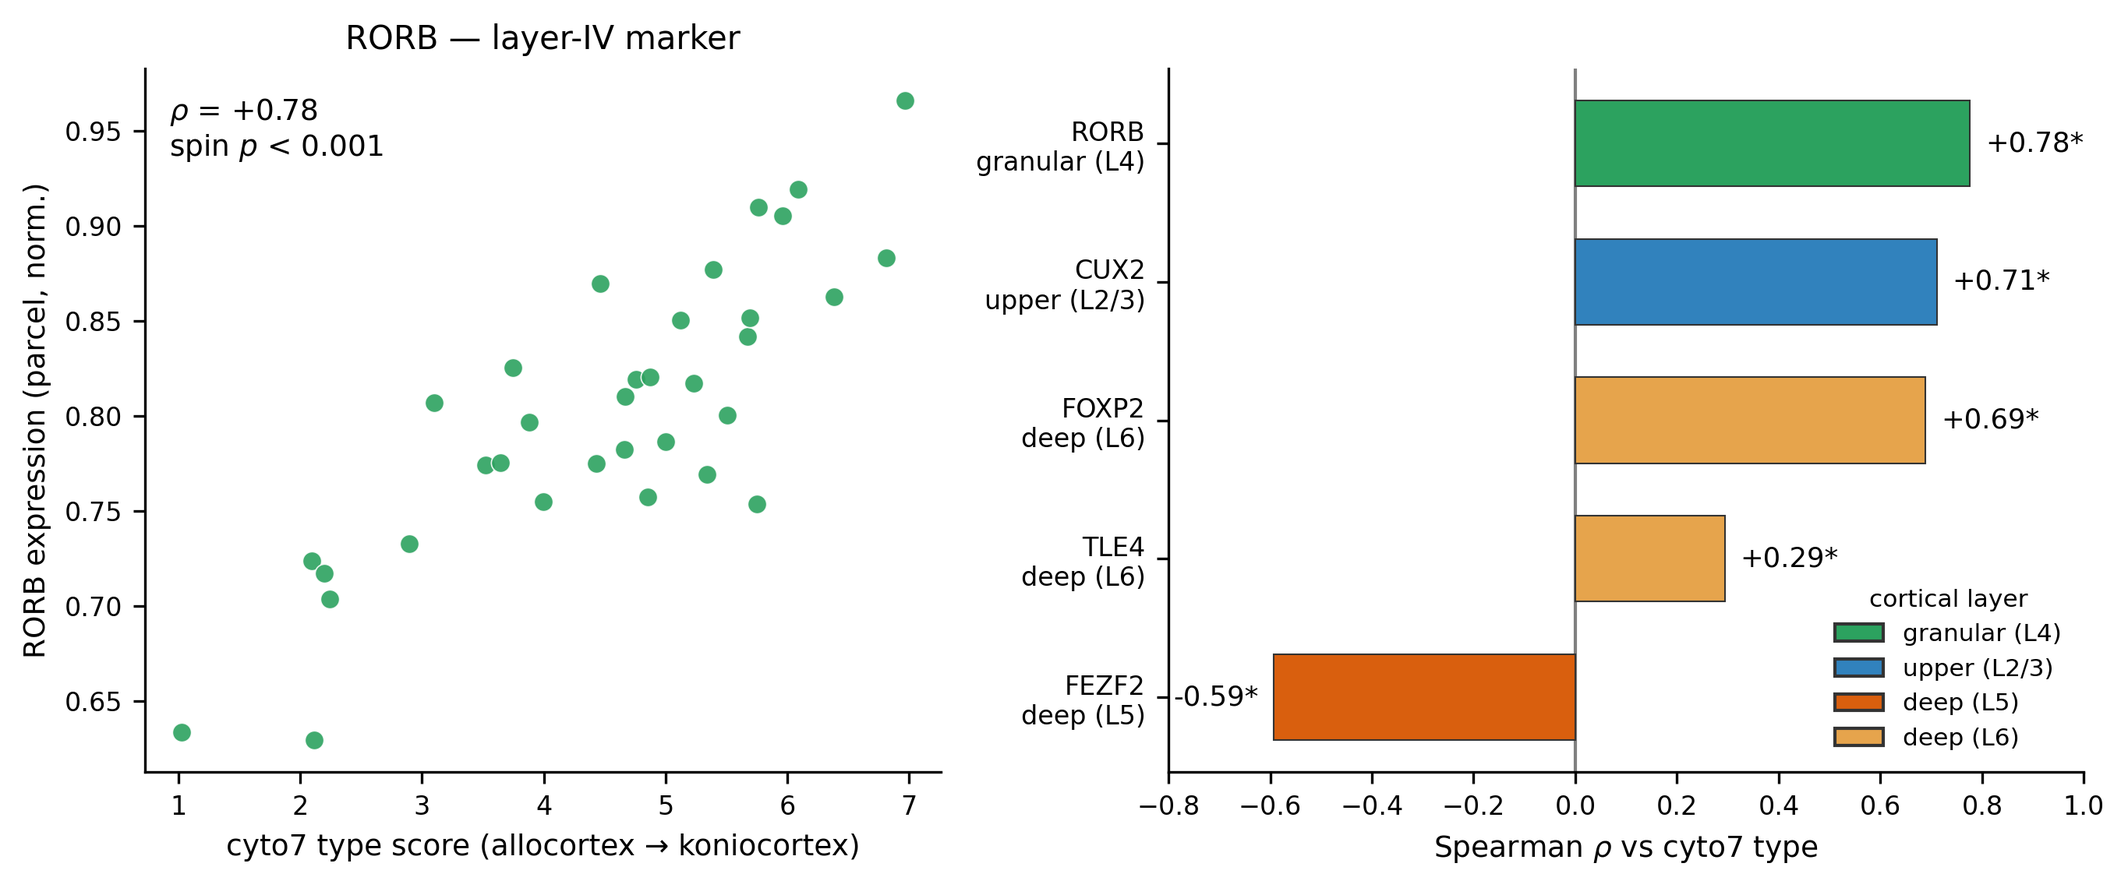
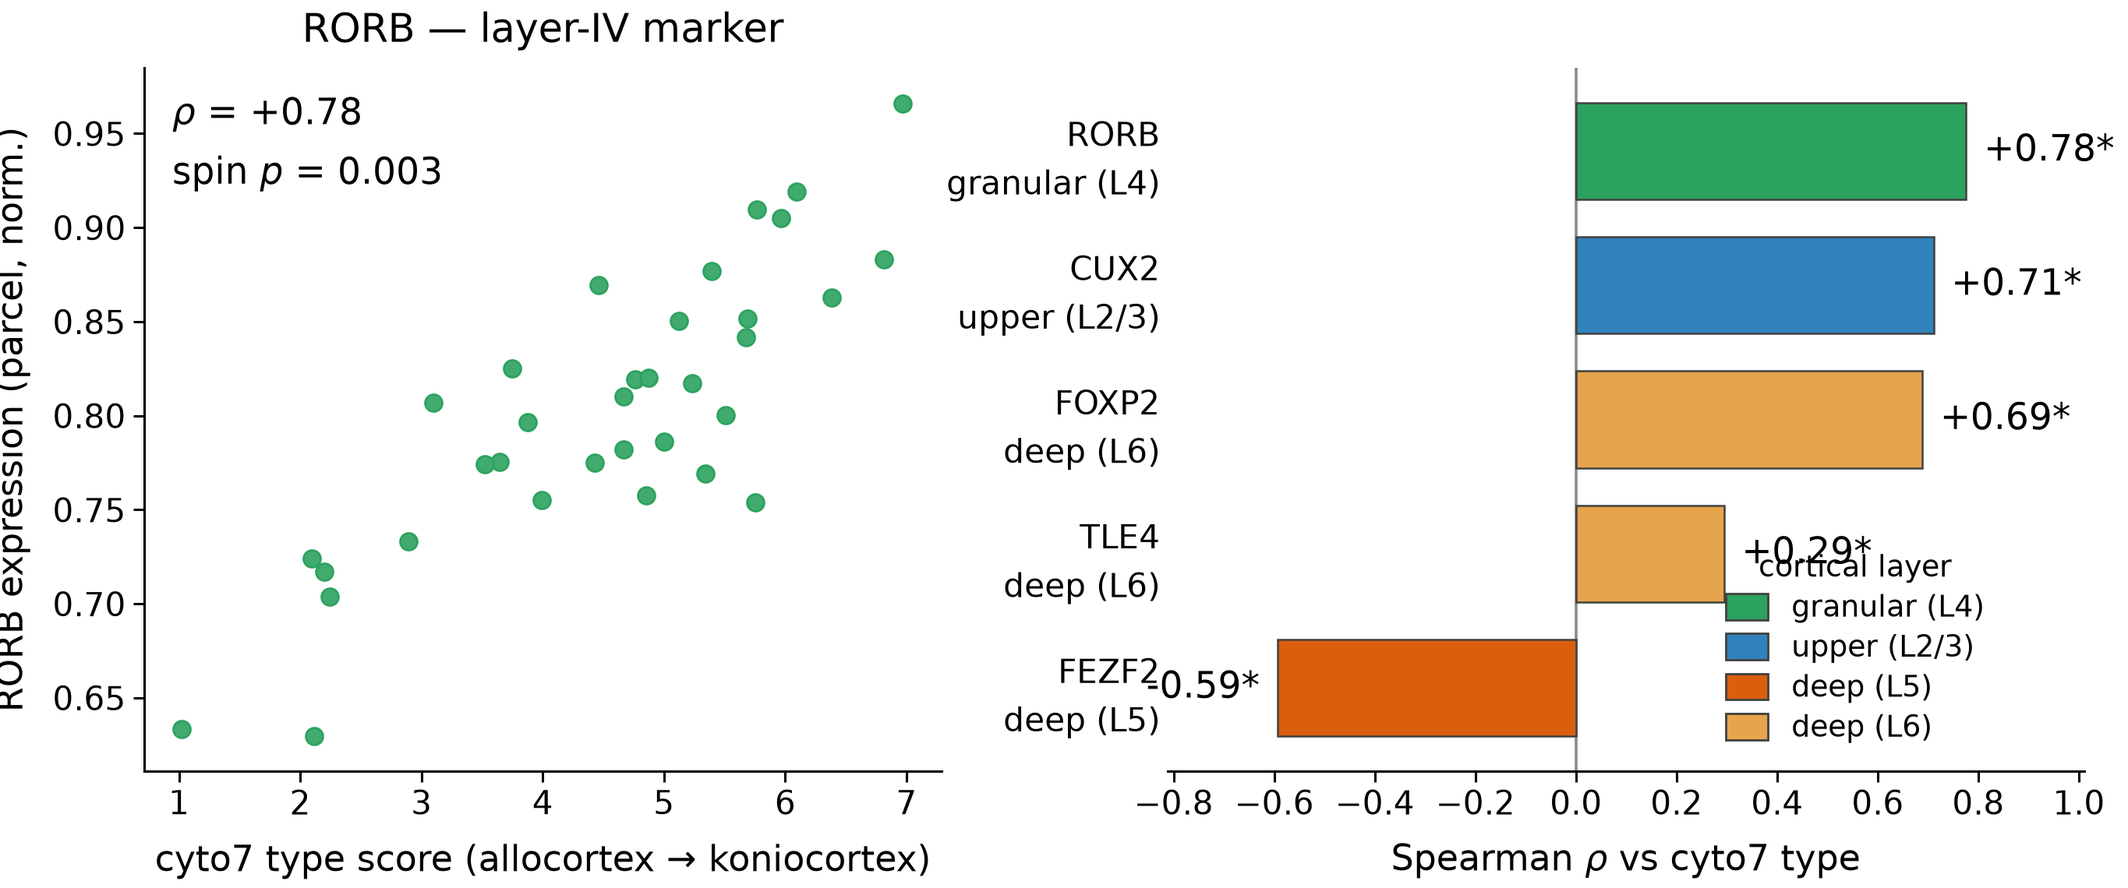
RR45: resync with the manuscript, fill ORCIDs, document the volumetric route
The bundle shipped the PRE-RR32 outcome table: 143 rows in 20 families, where
the paper, Table S4 and the supplement all say 147 rows in 21 families. That is
the paper's central statistical table, and a reviewer rebuilding it from this
repository would not have reproduced the paper. Same defect class as RR17 and
RR24 -- a released product that is not what it claims to be. Synced, with the
four other rr2_table outputs that moved with it.

Eight figures were still the 26 August renders, superseded by RR33's drift fix
and RR43's Figure 2. All nineteen figures the manuscript and supplement
\includegraphics now hash-match the bundle.

CITATION.cff: the five TODO(ORCID) placeholders filled. The two TODO(DOI)
placeholders are left alone; they are minted from a release that does not exist.

atlas/README.md: a volumetric route for readers who need cyto7 in a volume,
via mri_aparc2aseg after the surf2surf step. It documents the trap that the
released colour tables pack RGB into structure_id, so the naive command yields
1000-plus-packed-RGB rather than 1001-1007, and points at the two helpers in
code/pipeline/compute_tractography_connectivity.py that give clean labels. No
volume file is shipped, and the reasoning for that is in the README.

dist/SHA256SUMS.txt regenerated: 419 lines before and after, 15 checksums
changed, which is exactly what was replaced.

diff --git a/results/tables/review_response/rr2_table/outcome_table.tex b/results/tables/review_response/rr2_table/outcome_table.tex
@@ -2,7 +2,7 @@
 {\footnotesize
 \setlength{\tabcolsep}{4pt}
 \begin{longtable}{>{\raggedright\arraybackslash}p{6.0cm}>{\raggedright\arraybackslash}p{3.0cm}>{\raggedright\arraybackslash}p{1.5cm}>{\raggedright\arraybackslash}p{3.8cm}>{\raggedright\arraybackslash}p{4.0cm}>{\raggedright\arraybackslash}p{1.2cm}>{\raggedright\arraybackslash}p{1.0cm}>{\raggedright\arraybackslash}p{0.5cm}}
-\caption{\textbf{Supplementary Table S5. Complete outcome table.} Every statistical test run in this study, with its hypothesis status, statistical unit, null, FDR family, raw $p$, within-family $q$ and effect size. Status records whether a test was specified in advance, not whether its result is retained: the connectivity analysis of Annex~G was specified in advance but is reported as exploratory there, because it does not survive a topology-preserving null or a bundle-level model. An asterisk marks tests surviving at $q<0.05$ within their family. Families are never pooled. Tests reported without a $q$ had no FDR applied within their family and are marked accordingly; Table~S6 lists every family with its size, whether correction was applied and why.}\label{tab:outcomes}\\
+\caption{\textbf{Supplementary Table S8. Outcome table: the declared FDR families.} Every test in the declared FDR families, with its hypothesis status, statistical unit, null, FDR family, raw $p$, within-family $q$ and effect size. Status records whether a test was specified in advance, not whether its result is retained: the connectivity analysis of Annex~G was specified in advance but is reported as exploratory there, because it does not survive a spin null or a bundle-level model. An asterisk marks tests surviving at $q<0.05$ within their family. Families are never pooled. Tests reported without a $q$ had no FDR applied within their family and are marked accordingly; Table~S4 lists every family with its size, whether correction was applied and why. Robustness and sensitivity analyses reported in the text are not confirmatory tests, sit in no declared family and are therefore not listed here; they are disclosed, without FDR, in the robustness listing.}\label{tab:outcomes}\\
 \hline
 Measure & Family ($n$) & Status & Unit ($n_{\mathrm{obs}}$) & Null & $p_{\mathrm{raw}}$ & $q$ & \\
 \hline
@@ -22,9 +22,13 @@ Alpha power (8-12 Hz)\newline\footnotesize Spearman $\rho$ = +0.3692 & structure
 Beta power (12-30 Hz)\newline\footnotesize Spearman $\rho$ = +0.2660 & structure\_\allowbreak{}function\_\allowbreak{}9 (9) & confirmatory & vertex (32k fs\_\allowbreak{}LR), n=58731 & vertex spin (N=1000, seed 0) & 0.416 & 0.468 &  \\
 Gamma power (30-60 Hz)\newline\footnotesize Spearman $\rho$ = -0.3082 & structure\_\allowbreak{}function\_\allowbreak{}9 (9) & confirmatory & vertex (32k fs\_\allowbreak{}LR), n=58731 & vertex spin (N=1000, seed 0) & 0.289 & 0.371 &  \\
 Principal functional gradient\newline\footnotesize Spearman $\rho$ = -0.5761 & structure\_\allowbreak{}function\_\allowbreak{}9 (9) & confirmatory & vertex (32k fs\_\allowbreak{}LR), n=58731 & vertex spin (N=1000, seed 0) & 0.001 & 0.004 & * \\
-AHBA gene expression PC1\newline\footnotesize Spearman $\rho$ = +0.6657 & external\_\allowbreak{}reference\_\allowbreak{}3 (3) & confirmatory & vertex (32k fs\_\allowbreak{}LR), n=57957 & vertex spin (N=1000, seed 0) & 0.001 & 0.003 & * \\
-PET receptor PC1 (Hansen-2022 collection)\newline\footnotesize Spearman $\rho$ = -0.3292 & external\_\allowbreak{}reference\_\allowbreak{}3 (3) & confirmatory & vertex (32k fs\_\allowbreak{}LR), n=58731 & vertex spin (N=1000, seed 0) & 0.063 & 0.094 &  \\
-BigBrain profile skewness (pre-registered, histology)\newline\footnotesize Spearman $\rho$ = -0.2091 & external\_\allowbreak{}reference\_\allowbreak{}3 (3) & confirmatory & vertex (32k fs\_\allowbreak{}LR), n=58731 & vertex spin (N=1000, seed 0) & 0.321 & 0.401 &  \\
+AHBA gene expression PC1\newline\footnotesize Spearman $\rho$ = +0.6657 & external\_\allowbreak{}reference\_\allowbreak{}2 (2) & confirmatory & vertex (32k fs\_\allowbreak{}LR), n=57957 & vertex spin (N=1000, seed 0) & 0.001 & 0.002 & * \\
+PET receptor PC1 (Hansen-2022 collection)\newline\footnotesize Spearman $\rho$ = -0.3292 & external\_\allowbreak{}reference\_\allowbreak{}2 (2) & confirmatory & vertex (32k fs\_\allowbreak{}LR), n=58731 & vertex spin (N=1000, seed 0) & 0.063 & 0.063 &  \\
+BigBrain Profile mean intensity\newline\footnotesize Spearman $\rho$ = -0.2826 & bigbrain\_\allowbreak{}profile\_\allowbreak{}panel\_\allowbreak{}5 (5) & exploratory & vertex (32k fs\_\allowbreak{}LR), n=58731 & vertex spin (N=1000, seed 0) & 0.209 & 0.348 &  \\
+BigBrain Profile SD\newline\footnotesize Spearman $\rho$ = +0.4357 & bigbrain\_\allowbreak{}profile\_\allowbreak{}panel\_\allowbreak{}5 (5) & exploratory & vertex (32k fs\_\allowbreak{}LR), n=58731 & vertex spin (N=1000, seed 0) & 0.003 & 0.015 & * \\
+BigBrain Profile skewness (pre-registered)\newline\footnotesize Spearman $\rho$ = -0.2091 & bigbrain\_\allowbreak{}profile\_\allowbreak{}panel\_\allowbreak{}5 (5) & confirmatory & vertex (32k fs\_\allowbreak{}LR), n=58731 & vertex spin (N=1000, seed 0) & 0.321 & 0.401 &  \\
+BigBrain Profile kurtosis\newline\footnotesize Spearman $\rho$ = -0.2422 & bigbrain\_\allowbreak{}profile\_\allowbreak{}panel\_\allowbreak{}5 (5) & exploratory & vertex (32k fs\_\allowbreak{}LR), n=58731 & vertex spin (N=1000, seed 0) & 0.133 & 0.332 &  \\
+BigBrain Layer-IV peak prominence\newline\footnotesize Spearman $\rho$ = +0.0848 & bigbrain\_\allowbreak{}profile\_\allowbreak{}panel\_\allowbreak{}5 (5) & exploratory & vertex (32k fs\_\allowbreak{}LR), n=58731 & vertex spin (N=1000, seed 0) & 0.674 & 0.674 &  \\
 Aperiodic exponent (fixed, 2-40 Hz, pre-registered)\newline\footnotesize mean over 89 subjects of the per-subject vertex-level Spearman $\rho$ = -0.1192 & dynamics\_\allowbreak{}singlemember\_\allowbreak{}7 (7) & confirmatory & subject (N=89) x vertex (4k fs\_\allowbreak{}LR), n=89 subjects x 8004 vertices & hierarchical subject x vertex spin (N=1000, seed 0) & 0.499 & 0.582 &  \\
 Peak frequency\newline\footnotesize mean over 89 subjects of the per-subject vertex-level Spearman $\rho$ = +0.0280 & dynamics\_\allowbreak{}singlemember\_\allowbreak{}7 (7) & confirmatory & subject (N=89) x vertex (4k fs\_\allowbreak{}LR), n=89 subjects x 8004 vertices & hierarchical subject x vertex spin (N=1000, seed 0) & 0.824 & 0.824 &  \\
 Spectral offset\newline\footnotesize mean over 89 subjects of the per-subject vertex-level Spearman $\rho$ = -0.1618 & dynamics\_\allowbreak{}singlemember\_\allowbreak{}7 (7) & confirmatory & subject (N=89) x vertex (4k fs\_\allowbreak{}LR), n=89 subjects x 8004 vertices & hierarchical subject x vertex spin (N=1000, seed 0) & 0.213 & 0.298 &  \\
@@ -34,11 +38,11 @@ Intrinsic timescale (area under the ACF, pre-registered)\newline\footnotesize me
 Intrinsic timescale (exponential decay)\newline\footnotesize mean over 89 subjects of the per-subject vertex-level Spearman $\rho$ = -0.3797 & dynamics\_\allowbreak{}robustness\_\allowbreak{}variants (outside FDR) (5) & robustness & subject (N=89) x vertex (4k fs\_\allowbreak{}LR), n=89 subjects x 8004 vertices & hierarchical subject x vertex spin (N=1000, seed 0) & 0.013 & -- &  \\
 Aperiodic exponent (knee mode)\newline\footnotesize mean over 89 subjects of the per-subject vertex-level Spearman $\rho$ = +0.3388 & dynamics\_\allowbreak{}robustness\_\allowbreak{}variants (outside FDR) (5) & robustness & subject (N=89) x vertex (4k fs\_\allowbreak{}LR), n=89 subjects x 8004 vertices & hierarchical subject x vertex spin (N=1000, seed 0) & 0.040 & -- &  \\
 Aperiodic exponent (broadband 1-100 Hz)\newline\footnotesize mean over 89 subjects of the per-subject vertex-level Spearman $\rho$ = +0.0954 & dynamics\_\allowbreak{}robustness\_\allowbreak{}variants (outside FDR) (5) & robustness & subject (N=89) x vertex (4k fs\_\allowbreak{}LR), n=89 subjects x 8004 vertices & hierarchical subject x vertex spin (N=1000, seed 0) & 0.469 & -- &  \\
-Aperiodic-corrected delta power\newline\footnotesize mean over 89 subjects of the per-subject vertex-level Spearman $\rho$ = -0.0298 & osc\_\allowbreak{}band\_\allowbreak{}as\_\allowbreak{}coded (4) & exploratory & subject (N=89) x vertex (4k fs\_\allowbreak{}LR), n=89 subjects x 8004 vertices & hierarchical subject x vertex spin (N=1000, seed 0) & 0.284 & 0.397 &  \\
-Aperiodic-corrected theta power\newline\footnotesize mean over 89 subjects of the per-subject vertex-level Spearman $\rho$ = -0.0923 & osc\_\allowbreak{}band\_\allowbreak{}as\_\allowbreak{}coded (4) & exploratory & subject (N=89) x vertex (4k fs\_\allowbreak{}LR), n=89 subjects x 8004 vertices & hierarchical subject x vertex spin (N=1000, seed 0) & 0.493 & 0.575 &  \\
-Aperiodic-corrected alpha power\newline\footnotesize mean over 89 subjects of the per-subject vertex-level Spearman $\rho$ = +0.2602 & osc\_\allowbreak{}band\_\allowbreak{}as\_\allowbreak{}coded (4) & exploratory & subject (N=89) x vertex (4k fs\_\allowbreak{}LR), n=89 subjects x 8004 vertices & hierarchical subject x vertex spin (N=1000, seed 0) & 0.242 & 0.397 &  \\
+Aperiodic-corrected delta power\newline\footnotesize mean over 89 subjects of the per-subject vertex-level Spearman $\rho$ = -0.0298 & osc\_\allowbreak{}band\_\allowbreak{}as\_\allowbreak{}coded\_\allowbreak{}4 (4) & exploratory & subject (N=89) x vertex (4k fs\_\allowbreak{}LR), n=89 subjects x 8004 vertices & hierarchical subject x vertex spin (N=1000, seed 0) & 0.284 & 0.567 &  \\
+Aperiodic-corrected theta power\newline\footnotesize mean over 89 subjects of the per-subject vertex-level Spearman $\rho$ = -0.0923 & osc\_\allowbreak{}band\_\allowbreak{}as\_\allowbreak{}coded\_\allowbreak{}4 (4) & exploratory & subject (N=89) x vertex (4k fs\_\allowbreak{}LR), n=89 subjects x 8004 vertices & hierarchical subject x vertex spin (N=1000, seed 0) & 0.493 & 0.591 &  \\
+Aperiodic-corrected alpha power\newline\footnotesize mean over 89 subjects of the per-subject vertex-level Spearman $\rho$ = +0.2602 & osc\_\allowbreak{}band\_\allowbreak{}as\_\allowbreak{}coded\_\allowbreak{}4 (4) & exploratory & subject (N=89) x vertex (4k fs\_\allowbreak{}LR), n=89 subjects x 8004 vertices & hierarchical subject x vertex spin (N=1000, seed 0) & 0.242 & 0.567 &  \\
 Aperiodic-corrected beta power\newline\footnotesize mean over 89 subjects of the per-subject vertex-level Spearman $\rho$ = +0.2222 & dynamics\_\allowbreak{}singlemember\_\allowbreak{}7 (7) & confirmatory & subject (N=89) x vertex (4k fs\_\allowbreak{}LR), n=89 subjects x 8004 vertices & hierarchical subject x vertex spin (N=1000, seed 0) & 0.012 & 0.021 & * \\
-Aperiodic-corrected gamma power\newline\footnotesize mean over 89 subjects of the per-subject vertex-level Spearman $\rho$ = -0.0273 & osc\_\allowbreak{}band\_\allowbreak{}as\_\allowbreak{}coded (4) & exploratory & subject (N=89) x vertex (4k fs\_\allowbreak{}LR), n=89 subjects x 8004 vertices & hierarchical subject x vertex spin (N=1000, seed 0) & 0.591 & 0.591 &  \\
+Aperiodic-corrected gamma power\newline\footnotesize mean over 89 subjects of the per-subject vertex-level Spearman $\rho$ = -0.0273 & osc\_\allowbreak{}band\_\allowbreak{}as\_\allowbreak{}coded\_\allowbreak{}4 (4) & exploratory & subject (N=89) x vertex (4k fs\_\allowbreak{}LR), n=89 subjects x 8004 vertices & hierarchical subject x vertex spin (N=1000, seed 0) & 0.591 & 0.591 &  \\
 Slow/fast band-power ratio\newline\footnotesize mean over 89 subjects of the per-subject vertex-level Spearman $\rho$ = -0.3564 & dynamics\_\allowbreak{}singlemember\_\allowbreak{}7 (7) & confirmatory & subject (N=89) x vertex (4k fs\_\allowbreak{}LR), n=89 subjects x 8004 vertices & hierarchical subject x vertex spin (N=1000, seed 0) & 0.009 & 0.021 & * \\
 Power-weighted spectral centroid\newline\footnotesize mean over 89 subjects of the per-subject vertex-level Spearman $\rho$ = +0.4088 & dynamics\_\allowbreak{}singlemember\_\allowbreak{}7 (7) & confirmatory & subject (N=89) x vertex (4k fs\_\allowbreak{}LR), n=89 subjects x 8004 vertices & hierarchical subject x vertex spin (N=1000, seed 0) & 0.004 & 0.014 & * \\
 MOR (opioid, metabotropic)\newline\footnotesize Spearman $\rho$ = -0.5483 & receptor\_\allowbreak{}maps\_\allowbreak{}19 (19) & exploratory & vertex (32k fs\_\allowbreak{}LR), n=58731 & vertex spin (N=1000, seed 0) & 0.005 & 0.043 & * \\
@@ -108,8 +112,8 @@ Per-type connectional property: mean\_\allowbreak{}length\_\allowbreak{}mm\newli
 Per-type connectional property: mean\_\allowbreak{}tortuosity\newline\footnotesize Spearman $\rho$ = +1.0000 & tractography\_\allowbreak{}per\_\allowbreak{}type\_\allowbreak{}8 (no FDR applied) (8) & exploratory & type (7), n=7 & label permutation of the 7 type ranks (N=5040, exhaustive) & 0.0004 & -- & * \\
 Added value over the area-level map, global: T1w/T2w myelin\newline\footnotesize delta |$\rho$| = +0.1164 (cyto7 +0.608 vs von-Economo +0.492) & added\_\allowbreak{}value\_\allowbreak{}global\_\allowbreak{}9 (9) & confirmatory & vertex (32k fs\_\allowbreak{}LR), n=58731 & vertex spin (N=1000, seed 0) & 0.001 & 0.006 & * \\
 Added value over the area-level map, global: Cortical thickness\newline\footnotesize delta |$\rho$| = +0.0960 (cyto7 -0.509 vs von-Economo -0.413) & added\_\allowbreak{}value\_\allowbreak{}global\_\allowbreak{}9 (9) & confirmatory & vertex (32k fs\_\allowbreak{}LR), n=58731 & vertex spin (N=1000, seed 0) & 0.002 & 0.006 & * \\
-Added value over the area-level map, global: Intrinsic timescale\newline\footnotesize delta |$\rho$| = +0.1582 (cyto7 -0.487 vs von-Economo -0.329) & added\_\allowbreak{}value\_\allowbreak{}global\_\allowbreak{}9 (9) & confirmatory & vertex (32k fs\_\allowbreak{}LR), n=58731 & vertex spin (N=1000, seed 0) & 0.034 & 0.076 &  \\
-Added value over the area-level map, global: Delta power (0.5-4 Hz)\newline\footnotesize delta |$\rho$| = +0.1398 (cyto7 -0.448 vs von-Economo -0.308) & added\_\allowbreak{}value\_\allowbreak{}global\_\allowbreak{}9 (9) & confirmatory & vertex (32k fs\_\allowbreak{}LR), n=58731 & vertex spin (N=1000, seed 0) & 0.077 & 0.139 &  \\
+Added value over the area-level map, global: Intrinsic timescale\newline\footnotesize delta |$\rho$| = +0.1582 (cyto7 -0.487 vs von-Economo -0.329) & added\_\allowbreak{}value\_\allowbreak{}global\_\allowbreak{}9 (9) & confirmatory & vertex (32k fs\_\allowbreak{}LR), n=58731 & vertex spin (N=1000, seed 0) & 0.034 & 0.077 &  \\
+Added value over the area-level map, global: Delta power (0.5-4 Hz)\newline\footnotesize delta |$\rho$| = +0.1398 (cyto7 -0.448 vs von-Economo -0.308) & added\_\allowbreak{}value\_\allowbreak{}global\_\allowbreak{}9 (9) & confirmatory & vertex (32k fs\_\allowbreak{}LR), n=58731 & vertex spin (N=1000, seed 0) & 0.077 & 0.138 &  \\
 Added value over the area-level map, global: Theta power (4-8 Hz)\newline\footnotesize delta |$\rho$| = +0.0662 (cyto7 -0.213 vs von-Economo -0.147) & added\_\allowbreak{}value\_\allowbreak{}global\_\allowbreak{}9 (9) & confirmatory & vertex (32k fs\_\allowbreak{}LR), n=58731 & vertex spin (N=1000, seed 0) & 0.537 & 0.537 &  \\
 Added value over the area-level map, global: Alpha power (8-12 Hz)\newline\footnotesize delta |$\rho$| = +0.1074 (cyto7 +0.371 vs von-Economo +0.263) & added\_\allowbreak{}value\_\allowbreak{}global\_\allowbreak{}9 (9) & confirmatory & vertex (32k fs\_\allowbreak{}LR), n=58731 & vertex spin (N=1000, seed 0) & 0.226 & 0.298 &  \\
 Added value over the area-level map, global: Beta power (12-30 Hz)\newline\footnotesize delta |$\rho$| = +0.0948 (cyto7 +0.235 vs von-Economo +0.141) & added\_\allowbreak{}value\_\allowbreak{}global\_\allowbreak{}9 (9) & confirmatory & vertex (32k fs\_\allowbreak{}LR), n=58731 & vertex spin (N=1000, seed 0) & 0.446 & 0.501 &  \\
@@ -145,8 +149,8 @@ Win fraction on the disagreement set (off2): Principal functional gradient\newli
 Aggregate win fraction on the disagreement set (all)\newline\footnotesize win fraction = 0.6010 across myelin/thickness/gradient & added\_\allowbreak{}value\_\allowbreak{}aggregate\_\allowbreak{}3 (3) & confirmatory & vertex (32k fs\_\allowbreak{}LR), n=27298 & vertex spin (N=1000, seed 0), win fraction recomputed per rotation & 0.001 & -- & * \\
 Aggregate win fraction on the disagreement set (off-by-1)\newline\footnotesize win fraction = 0.5757 across myelin/thickness/gradient & added\_\allowbreak{}value\_\allowbreak{}aggregate\_\allowbreak{}3 (3) & confirmatory & vertex (32k fs\_\allowbreak{}LR), n=23168 & vertex spin (N=1000, seed 0), win fraction recomputed per rotation & 0.002 & -- & * \\
 Aggregate win fraction on the disagreement set (off-by-$\geq$2)\newline\footnotesize win fraction = 0.7433 across myelin/thickness/gradient & added\_\allowbreak{}value\_\allowbreak{}aggregate\_\allowbreak{}3 (3) & confirmatory & vertex (32k fs\_\allowbreak{}LR), n=4130 & vertex spin (N=1000, seed 0), win fraction recomputed per rotation & 0.001 & -- & * \\
-Added value over the area-level map with BigBrain histology as arbiter\newline\footnotesize delta |$\rho$| = +0.0515 (cyto7 +0.209 vs von-Economo +0.158) & bigbrain\_\allowbreak{}added\_\allowbreak{}value\_\allowbreak{}2 (2) & confirmatory & vertex (32k fs\_\allowbreak{}LR), n=58731 & vertex spin (N=1000, seed 0) & 0.343 & 0.343 &  \\
-Win fraction on the disagreement set with BigBrain histology as arbiter\newline\footnotesize win fraction = 0.4990 (chance 0.519) & bigbrain\_\allowbreak{}added\_\allowbreak{}value\_\allowbreak{}2 (2) & confirmatory & vertex (32k fs\_\allowbreak{}LR), n=27298 & vertex spin (N=1000, seed 0), win fraction recomputed per rotation & 0.740 & -- &  \\
+Added value over the area-level map with BigBrain histology as arbiter\newline\footnotesize delta |$\rho$| = +0.0515 (cyto7 +0.209 vs von-Economo +0.158) & bigbrain\_\allowbreak{}added\_\allowbreak{}value\_\allowbreak{}2 (2) & confirmatory & vertex (32k fs\_\allowbreak{}LR), n=58731 & vertex spin (N=1000, seed 0) & 0.343 & 0.685 &  \\
+Win fraction on the disagreement set with BigBrain histology as arbiter\newline\footnotesize win fraction = 0.4990 (chance 0.519) & bigbrain\_\allowbreak{}added\_\allowbreak{}value\_\allowbreak{}2 (2) & confirmatory & vertex (32k fs\_\allowbreak{}LR), n=27298 & vertex spin (N=1000, seed 0), win fraction recomputed per rotation & 0.740 & 0.740 &  \\
 Negative control: Sulcal depth (pre-registered expected-null)\newline\footnotesize Spearman $\rho$ = -0.0392 & negative\_\allowbreak{}control\_\allowbreak{}2 (2) & confirmatory & vertex (32k fs\_\allowbreak{}LR), n=58731 & vertex spin (N=1000, seed 0) & 0.661 & 0.661 &  \\
 Negative control: Cortical curvature (|mean-curv| proxy)\newline\footnotesize Spearman $\rho$ = -0.0515 & negative\_\allowbreak{}control\_\allowbreak{}2 (2) & confirmatory & vertex (32k fs\_\allowbreak{}LR), n=58731 & vertex spin (N=1000, seed 0) & 0.529 & 0.661 &  \\
 Short-range connectivity vs type-distance, topology-preserving null\newline\footnotesize Pearson $\rho$ = -0.7649 (null mean -0.3337) & tractography\_\allowbreak{}5 (5) & confirmatory & type pair (7x7 off-diagonal), n=21, n=21 & type-map rotation (N=1000, seed 0), scale-free statistic & 0.040 & -- &  \\

diff --git a/atlas/README.md b/atlas/README.md
@@ -46,6 +46,44 @@ Then the usual tools work unchanged, for example per-type cortical thickness:
 mri_segstats --annot YOUR_SUBJECT lh cyto7.v9   --i $SUBJECTS_DIR/YOUR_SUBJECT/surf/lh.thickness --sum lh.cyto7.thickness.txt
 ```
 
+### A volumetric map for one subject
+
+The atlas is released on the surface only. To get a volumetric parcellation —
+for head modelling, an EEG/MEG or tES source space, or volume-space fMRI —
+build one per subject, after the `mri_surf2surf` step above:
+
+```bash
+mri_aparc2aseg --s YOUR_SUBJECT --annot cyto7.v9 --o cyto7+aseg.mgz
+```
+
+This writes a volume in which cortical voxels carry the cyto7 type and
+subcortical structures come from the standard `aseg`.
+
+**Read this before using the output.** `mri_aparc2aseg` adds the annotation's
+`structure_id` to 1000 (left) or 2000 (right). The released colour tables store
+a *packed RGB value* in that field, because that is what makes the `.annot`
+files round-trip correctly in other viewers. So the command above does **not**
+give labels 1001–1007 and 2001–2007; it gives 1000-plus-packed-RGB, which is
+not a usable label map.
+
+Two ways to clean labels, both in `code/pipeline/compute_tractography_connectivity.py`:
+
+- `make_freesurfer_friendly_ctab()` rewrites the colour table so `structure_id`
+  equals the cyto7 code, giving 1001–1007 and 2001–2007 directly; or
+- `remap_aparc2aseg_volume()` post-processes the volume the naive command
+  produces into labels 1–7, with 0 elsewhere.
+
+This is the path the tractography analysis uses (Annex G of the paper), so it is
+exercised code rather than an untested recipe.
+
+**No fsaverage volume is shipped**, deliberately. fsaverage's volume is a
+template average, so filling its ribbon with cyto7 labels produces something
+that looks usable but is not appropriate for individual analysis; the
+per-subject recipe above gives a better product for free. A volumetric release
+in MNI152 space is under consideration for a future version. It needs its own
+provenance record and a check that the seven types and the map's topology
+survive the ribbon fill and the nonlinear warp, so it is not included here.
+
 ### Connectome Workbench (fs_LR 32k)
 
 The 32k label GIFTIs are already in fs_LR 32k, so subject data in that space needs
